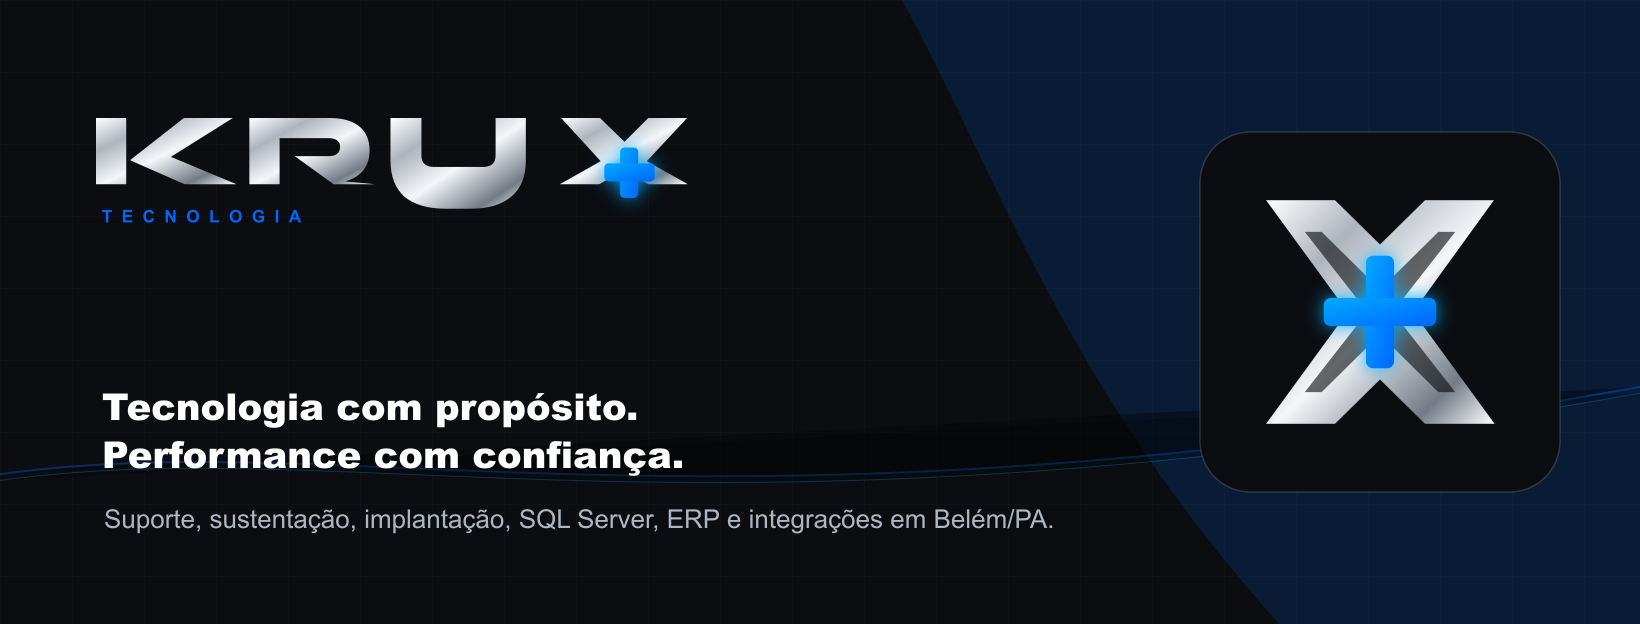
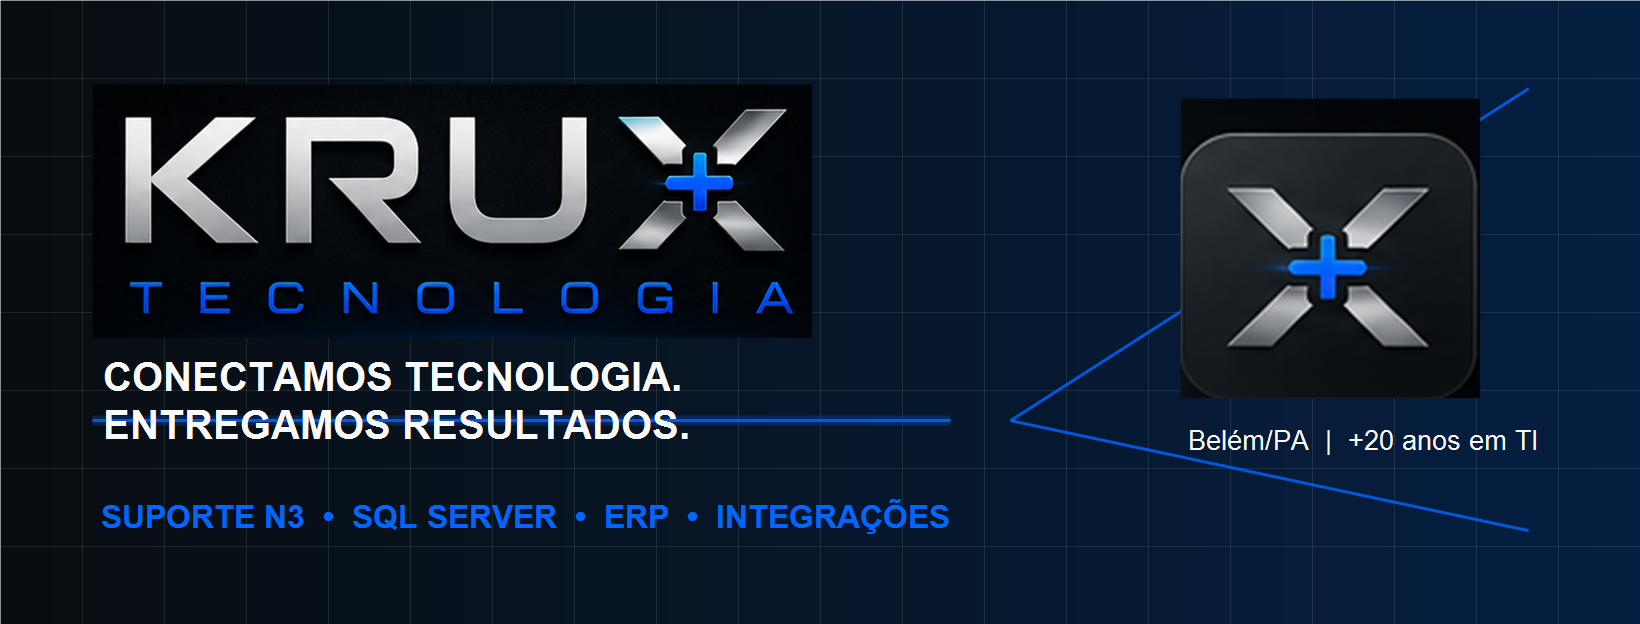
Add KRUX rebrand social kit

diff --git a/social-kit/rebrand/copy/legendas-rebrand-krux.md b/social-kit/rebrand/copy/legendas-rebrand-krux.md
@@ -1,0 +1,119 @@
+# Legendas rebranding KRUX
+
+## Ordem sugerida
+
+1. `krux-rebrand-01.png` - Fortis agora é KRUX Tecnologia
+2. `krux-rebrand-03.png` - Antes de formatar, diagnostique
+3. `krux-rebrand-02.png` - Limpeza preventiva reduz travamentos
+4. `krux-rebrand-05.png` - Quando o problema volta, falta causa raiz
+5. `krux-rebrand-06.png` - Backup sem teste não é segurança
+6. `krux-rebrand-07.png` - Sistema bom precisa de implantação boa
+7. `krux-rebrand-08.png` - Banco de dados não aceita improviso
+8. `krux-rebrand-09.png` - API falhou? Encontre o ponto de ruptura
+9. `krux-rebrand-04.png` - Celular corporativo parado também para a operação
+
+## Post 01 - Rebranding
+
+Fortis Informática agora é KRUX Tecnologia.
+
+A experiência continua. A marca evoluiu para uma fase mais consultiva, técnica e preparada para atender empresas e profissionais que dependem de tecnologia todos os dias.
+
+Suporte, sustentação, ERP, SQL Server, Windows Server, APIs e integrações em Belém/PA.
+
+WhatsApp: (91) 93300-5646
+
+#KruxTecnologia #TecnologiaBelem #SuporteTecnico #TIParaEmpresas #BelemPA
+
+## Post 02 - Checkup antes de formatar
+
+Nem todo computador lento precisa ser formatado.
+
+Antes de zerar tudo, vale diagnosticar: disco, memória, aquecimento, inicialização, vírus, backup, programas, drivers e rotina de uso.
+
+A KRUX olha o problema com visão técnica e prática, para resolver sem desperdício.
+
+WhatsApp: (91) 93300-5646
+
+#SuporteTecnico #ManutencaoDeComputadores #TecnologiaBelem #KruxTecnologia
+
+## Post 03 - Limpeza preventiva
+
+Fato: limpeza preventiva pode melhorar desempenho e evitar parada.
+
+Poeira, aquecimento e manutenção atrasada afetam computador, notebook e rotina de trabalho. O ideal é prevenir antes que o equipamento falhe no pior momento.
+
+Agende um checkup técnico com a KRUX.
+
+#ManutencaoPreventiva #SuporteTecnico #TIParaEmpresas #BelemPA
+
+## Post 04 - Problema recorrente
+
+Quando o mesmo erro volta toda semana, o problema não é só a máquina.
+
+Pode ser rede, sistema, permissões, banco de dados, processo, backup, atualização ou implantação mal resolvida.
+
+A KRUX atua com diagnóstico e suporte consultivo para atacar a causa raiz.
+
+#SuporteN3 #InfraestruturaTI #KruxTecnologia #EmpresasBelem
+
+## Post 05 - Backup
+
+Backup que nunca foi testado não é segurança.
+
+Arquivo salvo não basta. É preciso saber se ele restaura, onde fica, quem acompanha, com que frequência roda e o que acontece se a operação parar.
+
+Sua empresa já testou o backup este mês?
+
+#Backup #SegurancaDeDados #TIParaEmpresas #KruxTecnologia
+
+## Post 06 - ERP
+
+Sistema bom precisa de implantação boa.
+
+ERP não é só instalar e liberar usuário. Envolve processo, parametrização, treinamento, rotina, suporte e acompanhamento.
+
+A KRUX apoia empresas que precisam transformar sistema em resultado.
+
+#ERP #ImplantacaoDeSistemas #SuporteTI #KruxTecnologia
+
+## Post 07 - SQL Server
+
+Banco de dados não aceita improviso.
+
+Consultas, scripts, validações e correções precisam de critério quando afetam vendas, atendimento, emissão, faturamento e operação.
+
+A KRUX oferece apoio técnico para ambientes SQL Server.
+
+#SQLServer #BancoDeDados #SuporteN3 #TecnologiaBelem
+
+## Post 08 - Integrações
+
+API falhou? O importante é encontrar o ponto de ruptura.
+
+WebServices, retornos, logs, autenticação, dados e sistemas conectados precisam de análise técnica e documentação clara.
+
+A KRUX conecta sistemas com propósito e precisão.
+
+#APIs #WebServices #Integracoes #KruxTecnologia
+
+## Post 09 - Celular corporativo
+
+Celular corporativo parado também atrasa a operação.
+
+Atendimento, validação, comunicação, aplicativos e acesso a sistemas precisam funcionar com estabilidade.
+
+A KRUX apoia empresas e profissionais que precisam manter sua rotina digital de pé.
+
+#SuporteTecnico #CelularCorporativo #TecnologiaBelem #KruxTecnologia
+
+## Story de lançamento
+
+Arquivo: `krux-story-rebrand-launch.png`
+
+Texto sugerido para acompanhar:
+
+A Fortis agora é KRUX Tecnologia.
+
+Nova marca, mesma experiência, mais foco em empresas: suporte, sustentação, ERP, SQL Server, Windows Server e integrações.
+
+Chama no WhatsApp: (91) 93300-5646

diff --git a/README.md b/README.md
@@ -17,6 +17,19 @@ Site estático pronto para publicação em GitHub Pages.
 - Chamada direta para WhatsApp.
 - Seções de serviços, diferenciais, método, sobre, público e contato.
 - Provas de autoridade baseadas no currículo de Cleber Cassemiro da Cruz.
+- Kit social para Instagram e Facebook em `social-kit/`, incluindo avatar, capa, destaques, story e posts de rebranding.
+
+## Kit social final
+
+A versão final de rebranding está em:
+
+- `social-kit/assets/png/krux-avatar.png`
+- `social-kit/assets/png/facebook-cover.png`
+- `social-kit/rebrand/png/krux-rebrand-01.png` até `krux-rebrand-09.png`
+- `social-kit/rebrand/png/krux-story-rebrand-launch.png`
+- `social-kit/rebrand/copy/legendas-rebrand-krux.md`
+
+Essas peças reaproveitam os temas antigos da Fortis com a identidade nova da KRUX: preto/grafite, prata/branco e azul elétrico.
 
 ## Contato usado
 
